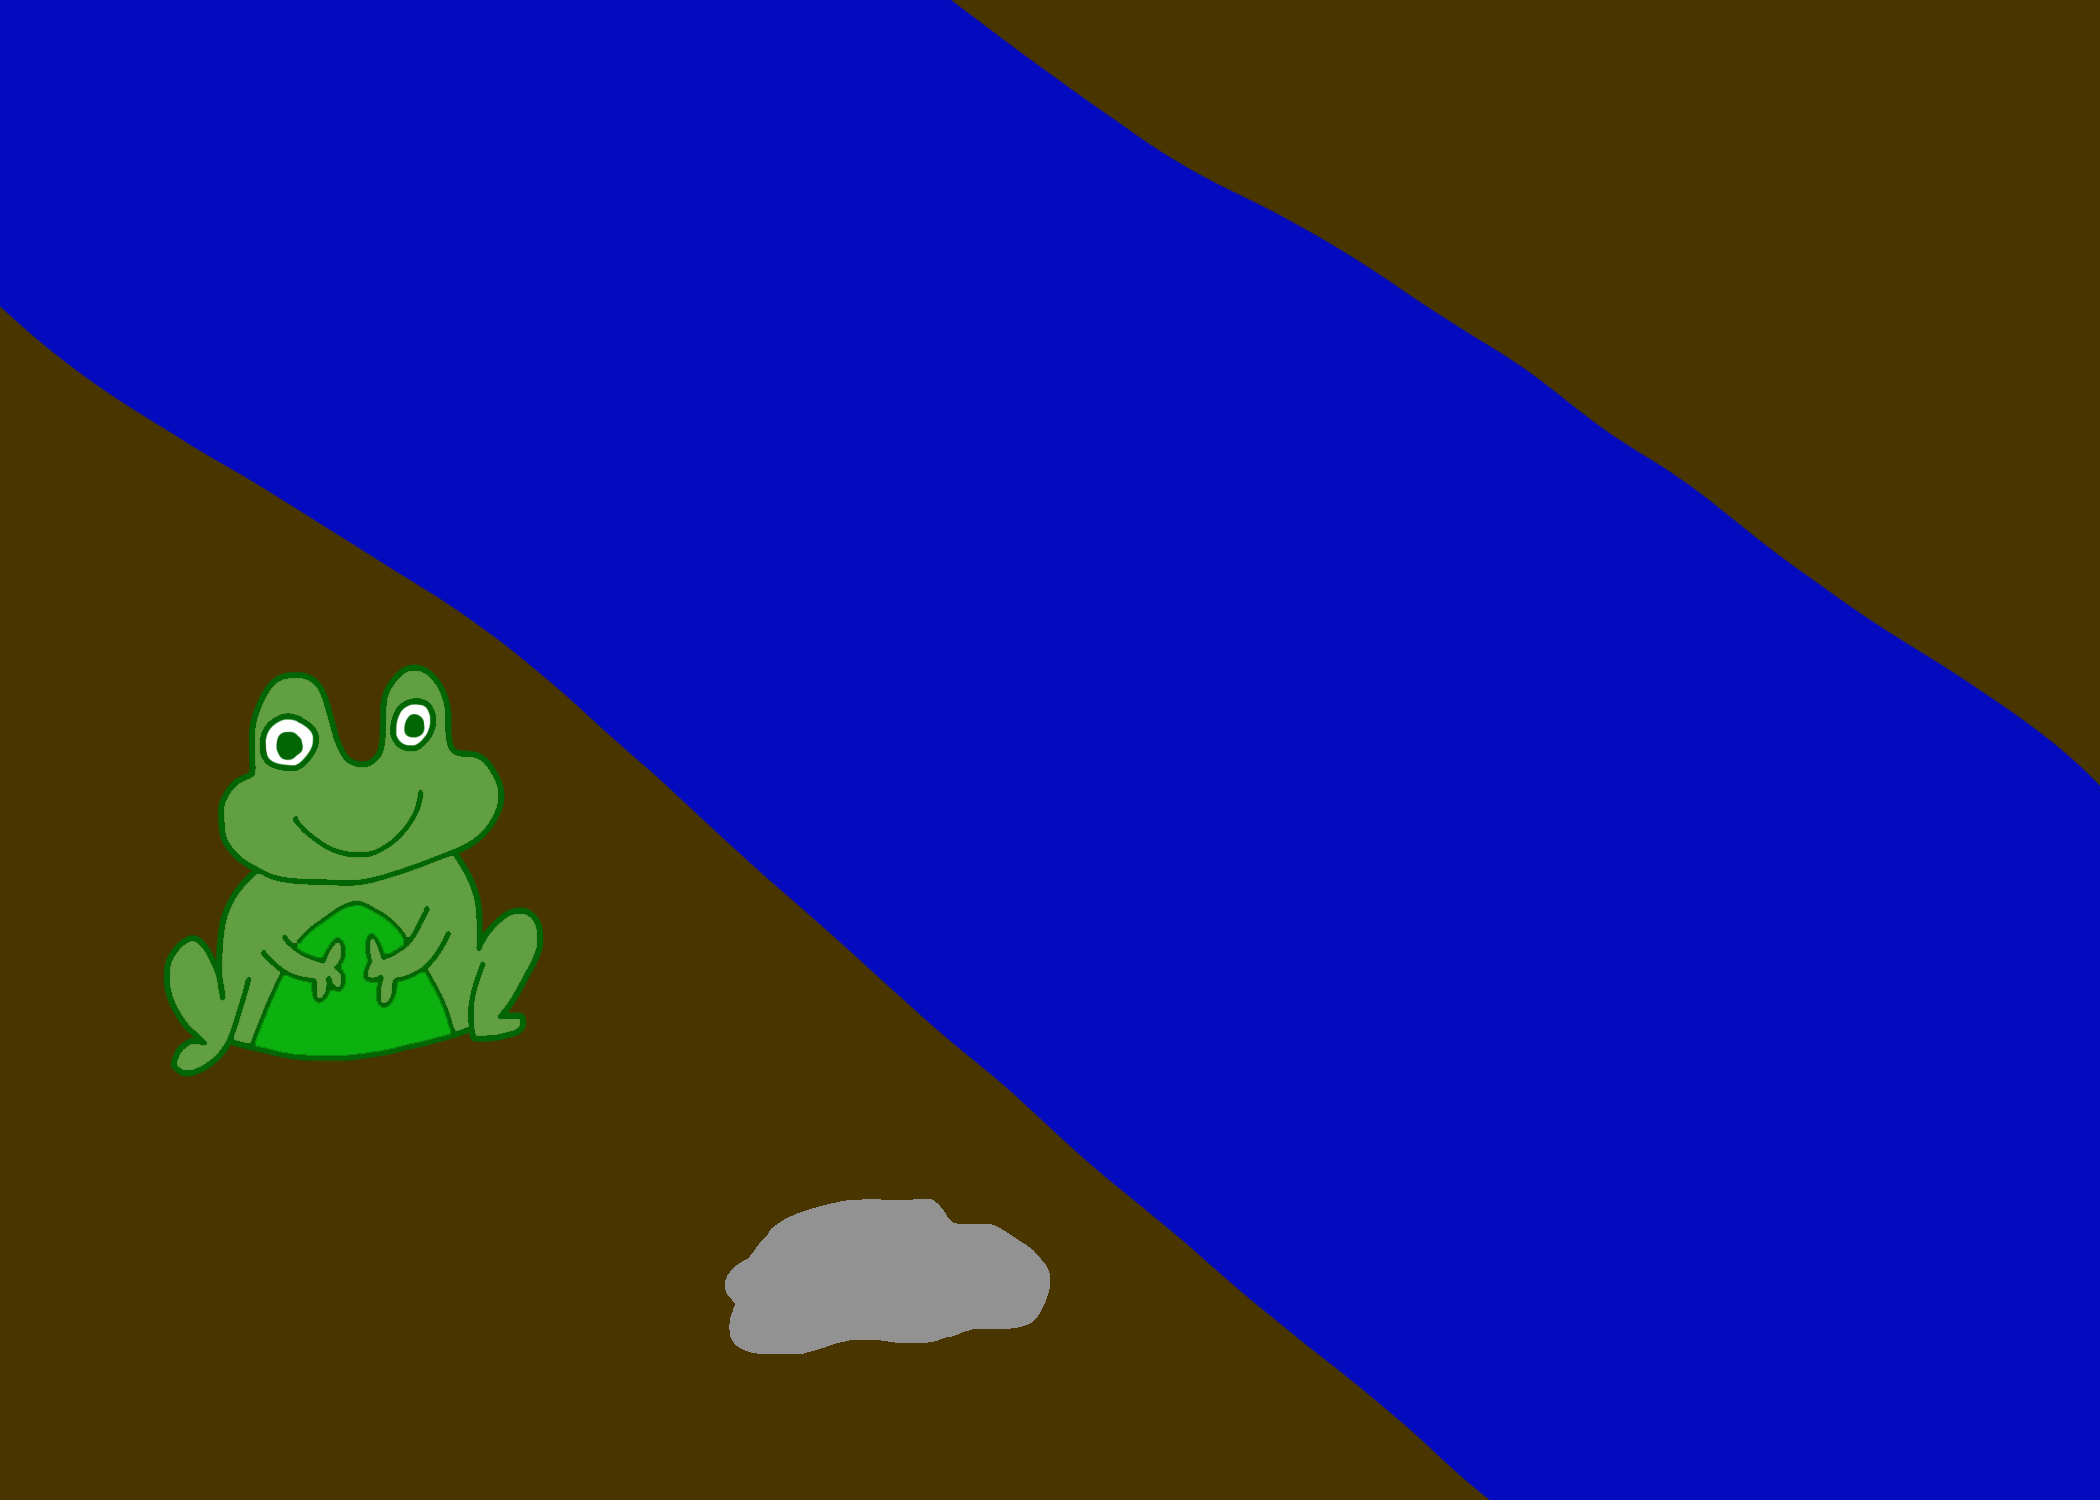
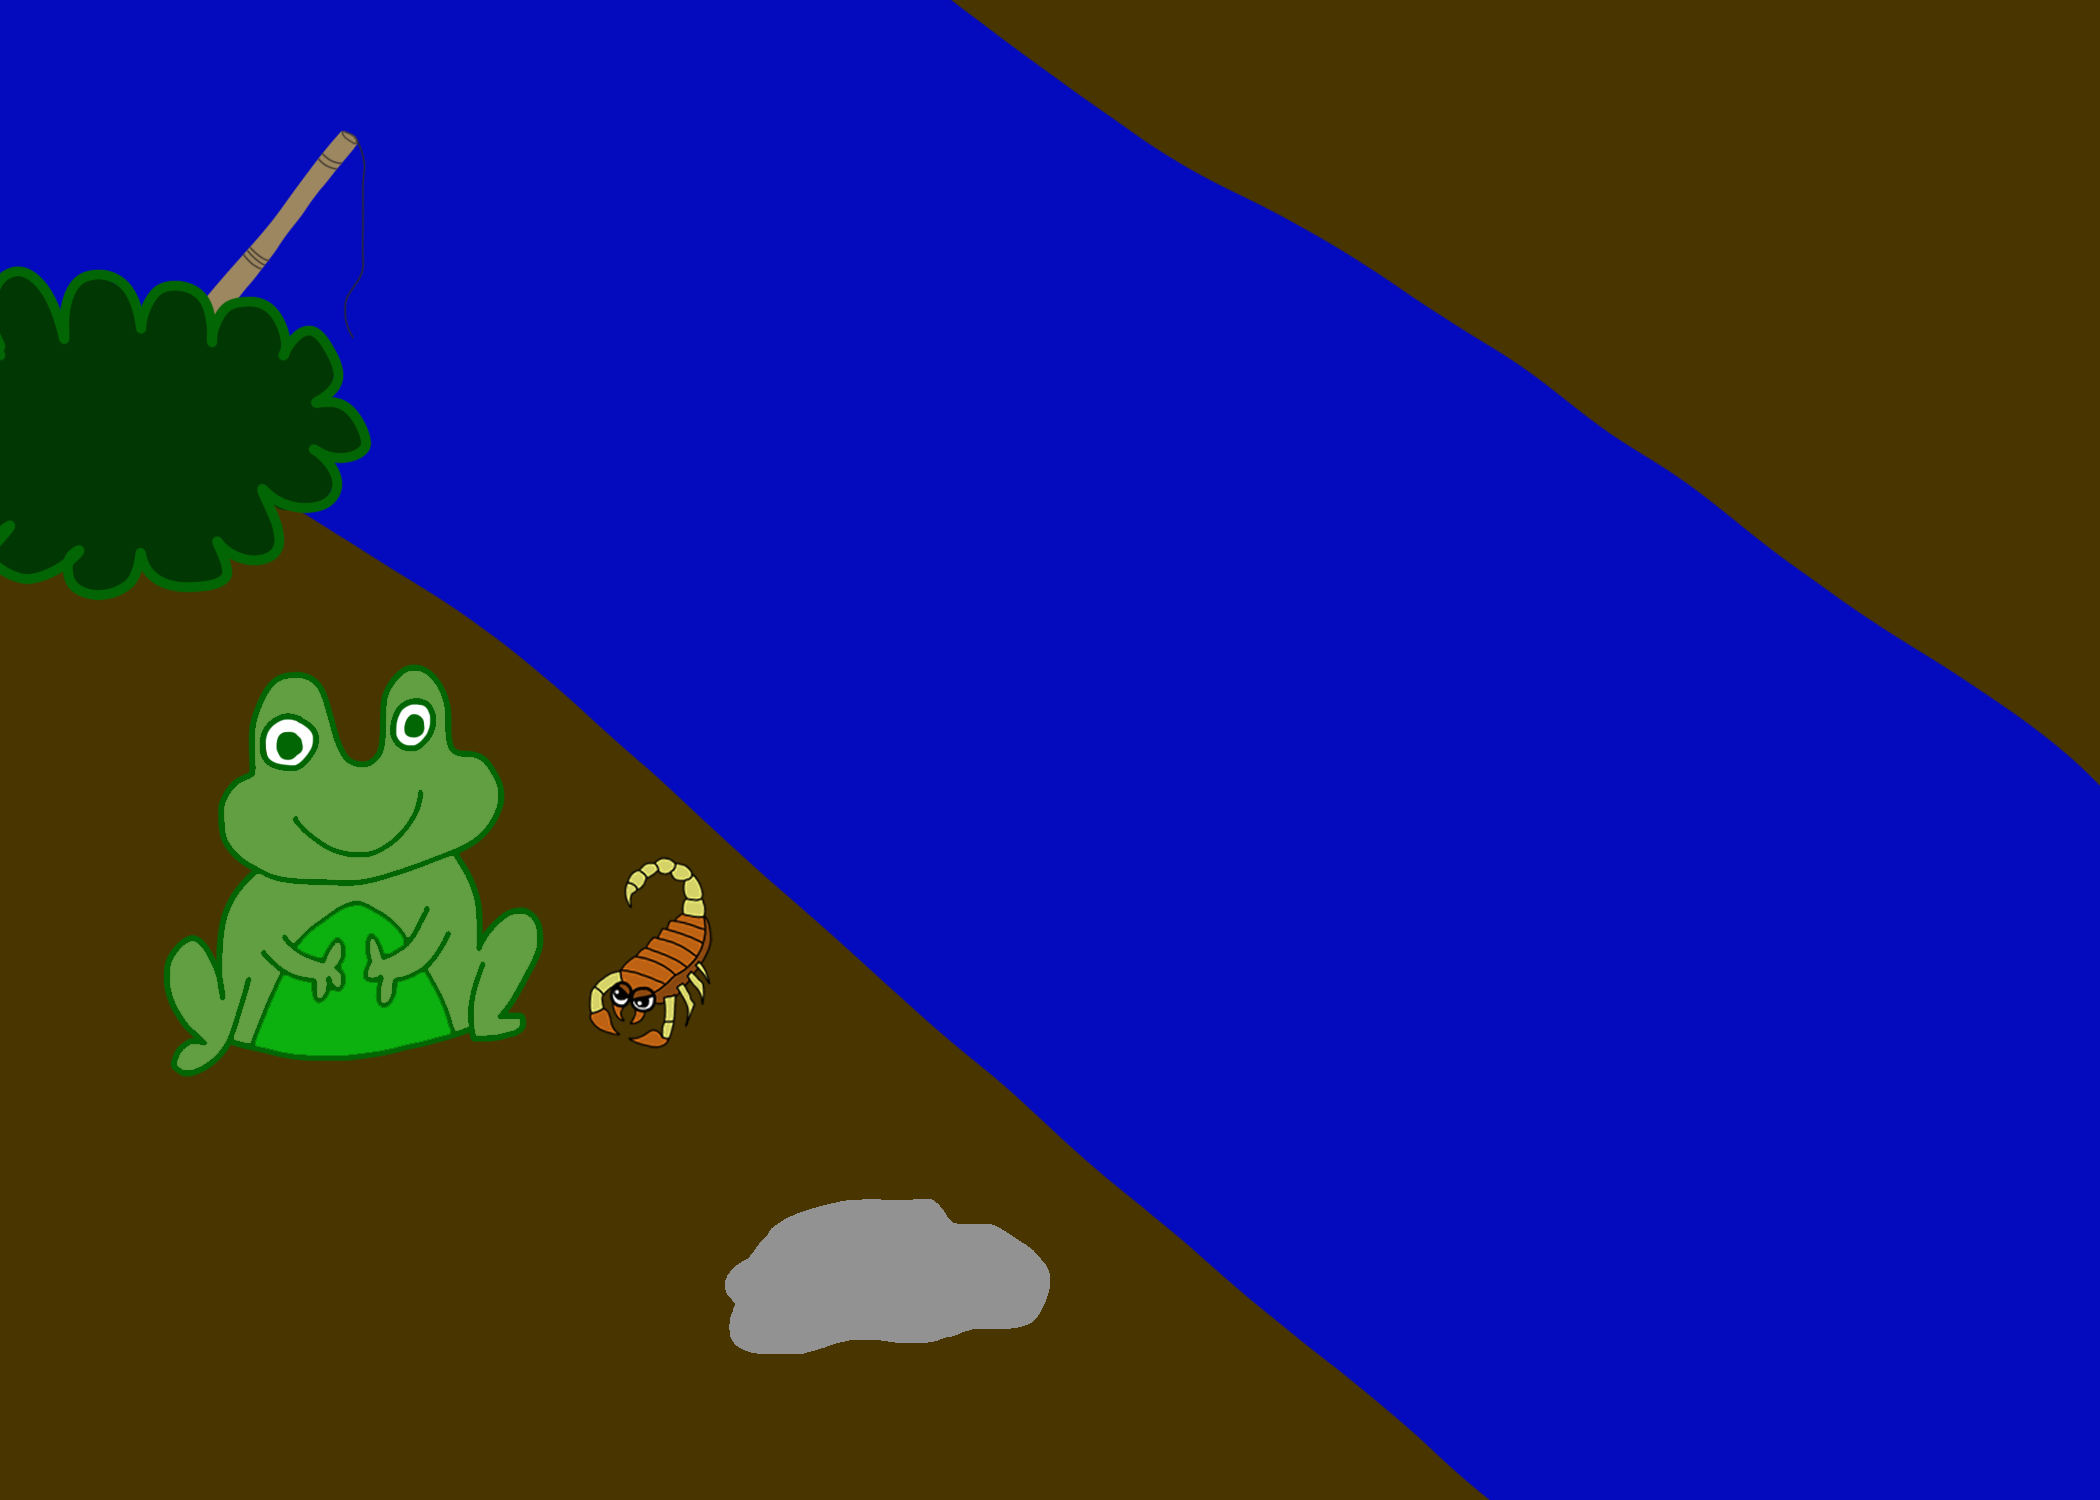
added all art and dictionaries
first full playable demo of game is complete

Changed region(s): [[0.0, 0.092, 0.1857, 0.3987], [0.2786, 0.552, 0.3405, 0.7053]]

diff --git a/index.html b/index.html
@@ -39,6 +39,7 @@
 				"phrase":"You're a frog",
 				"actions":
 				{
+					"grab fishing rod":"state_by_river_no_fishing_rod",
 					"move rock":"state_by_river_no_rock",
 					"swim":"state_drowning"
 				},
@@ -50,29 +51,98 @@
 				"phrase":"You moved the rock",
 				"actions":
 				{
-					"swim":"state_drowning_no_rock"
+					"grab fishing rod":"state_by_river_no_fishing_rod_no_rock",
+					"grab worm":"state_by_river_no_worm",
+					"swim":"state_drowning"
+				},
+			},
+			
+			"state_by_river_no_worm":
+			{
+				"png":"scene3.png",
+				"phrase":"You got the worm",
+				"actions":
+				{
+					"grab fishing rod":"state_by_river_no_fishing_rod_no_worm",
+					"swim":"state_drowning"
+				},
+			},
+			
+			"state_by_river_no_fishing_rod":
+			{
+				"png":"scene4.png",
+				"phrase":"You got the fishing rod",
+				"actions":
+				{
+					"move rock":"state_by_river_no_fishing_rod_no_rock",
+					"swim":"state_drowning"
+				},
+			},
+			
+			"state_by_river_no_fishing_rod_no_rock":
+			{
+				"png":"scene5.png",
+				"phrase":"You got the fishing rod and you moved the rock.",
+				"actions":
+				{
+					"grab worm":"state_by_river_no_fishing_rod_no_worm",
+					"swim":"state_drowning"
+				},
+			},
+			
+			"state_by_river_no_fishing_rod_no_worm":
+			{
+				"png":"scene6.png",
+				"phrase":"You got the fishing rod and the worm",
+				"actions":
+				{
+					"go fishing":"state_by_river_mitt",
+					"swim":"state_drowning"
+				},
+			},
+			
+			"state_by_river_mitt":
+			{
+				"png":"scene7.png",
+				"phrase":"You fished up an oven mitt",
+				"actions":
+				{
+					"give scorpion oven mitt":"state_by_river_friend",
+					"swim":"state_drowning"
+				},
+			},
+			
+			"state_by_river_friend":
+			{
+				"png":"scene8.png",
+				"phrase":"The scorpion thanks you for this fashionable new gift.",
+				"actions":
+				{
+					"swim":"state_win"
 				},
 			},
 			
 			"state_drowning":
 			{
-				"png":"scene3.png",
-				"phrase":"You drowned. Type restart to try again.",
+				"png":"scene9.png",
+				"phrase":"You try to swim across the river. ''Sorry it's in my nature.'' The scorpion pokes you and you both drown. Type restart to try again.",
 				"actions":
 				{
 					"restart":"state_startscreen"
 				},
 			},
 			
-			"state_drowning_no_rock":
+			"state_win":
 			{
-				"png":"scene4.png",
-				"phrase":"You drowned. Type restart to try again.",
+				"png":"winscreen.png",
+				"phrase":"You won the game!!!",
 				"actions":
 				{
 					"restart":"state_startscreen"
 				},
 			},
+			
+
 		};
 		//-----------------------------------------------------------------------------------------------------------------------------------------------------------------------
 		
